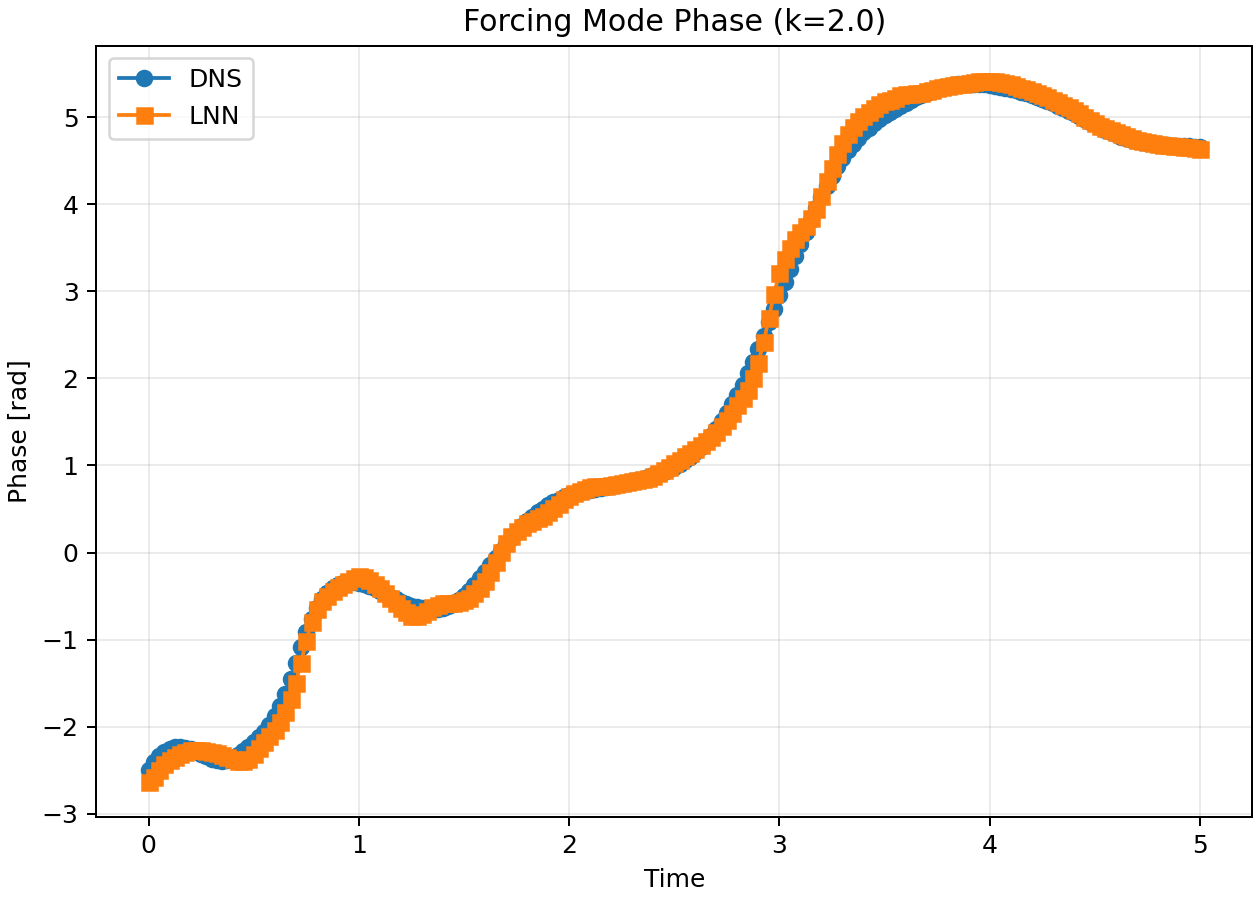
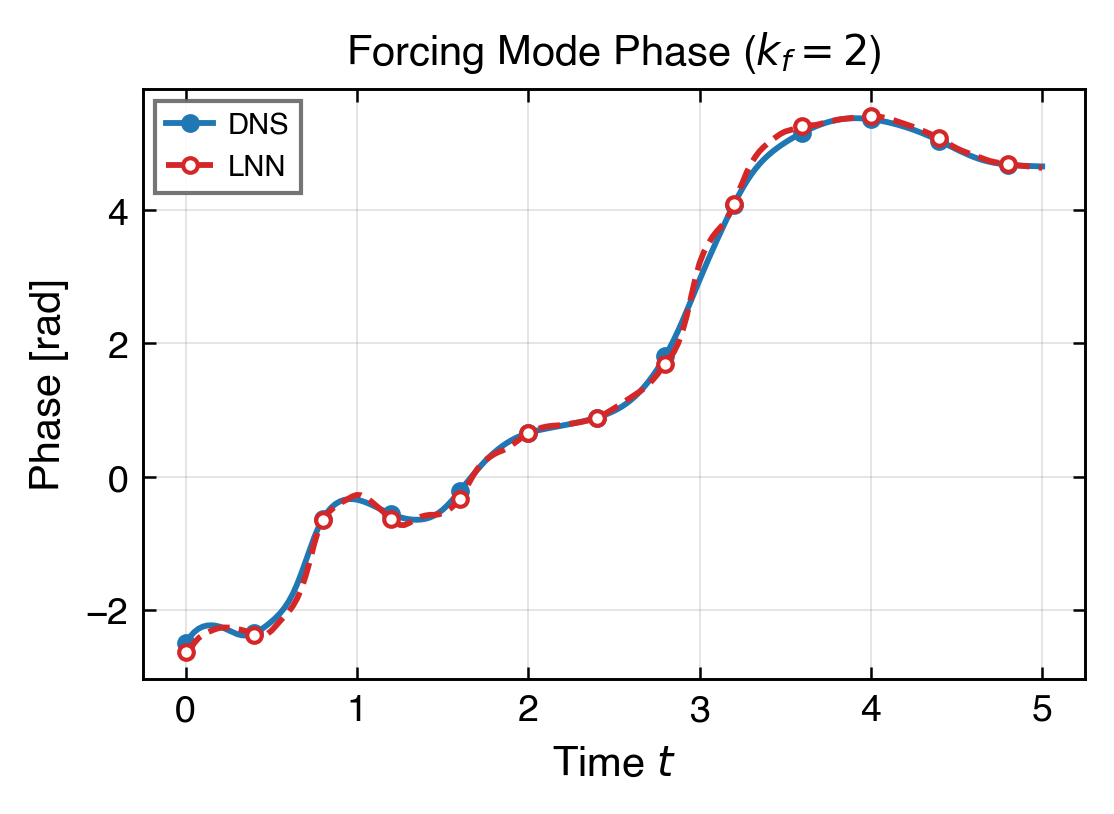
docs(architecture): refresh data + add Cylinder + ablation evidence
更新內容：
- Hero stats: u/v RMSE → u/v Relative L2 (17.0% / 20.2%)
  rel-L2 是 PINN 文獻標準度量（‖pred-ref‖₂/‖ref‖₂），補強 KE/RMSE 既有指標
- Section 07 Results: 5 → 6 signal cards（KE + u/v/ω rel-L2 + div + phase）
  並加入 turbulence-aware ablations 對比表（EXP-064 vs 067/068/069）
- Section 08 (新增): Cylinder Wake Case Study
  CEXP-001 (no BC, 51%) vs CEXP-002 (inflow BC, 3.5%) 對比 +
  velocity / vorticity / temporal 三張場圖
- Section 09 (原 08 重編號): 加 Convergent evidence callout
  將 EXP-067/068/069 hypothesis falsified 作為 K=100 上限的進一步佐證
- Section 10 (原 09 重編號): _run_cfc_pass 簽名對齊 13af6fa 後版本
  （re_bias 由 caller 預先加進 seq）
- Footer: 同時提及 Kolmogorov KE 7.80% + Cylinder KE 3.5%
  「CS limit confirmed × 4 (EXP-066/067/068/069)」

新 EXP-064 PNG 採用 NeurIPS/ICLR 樣式（4 邊框、bordered legend、簡潔 title）。

diff --git a/docs/lnn_architecture.html b/docs/lnn_architecture.html
@@ -1545,9 +1545,9 @@ code {
         <div class="metric-note">Re=10000 整段時間的動能相對誤差。</div>
       </div>
       <div class="stat-card">
-        <div class="metric-label">u / v RMSE</div>
-        <div class="metric-value good">6.89e-2 / 6.21e-2</div>
-        <div class="metric-note">速度兩分量在全時段的平均場誤差。</div>
+        <div class="metric-label">u / v Relative L2</div>
+        <div class="metric-value good">17.0% / 20.2%</div>
+        <div class="metric-note">場結構誤差 ‖pred − ref‖₂ / ‖ref‖₂（PINN 標準度量）。</div>
       </div>
       <div class="stat-card">
         <div class="metric-label">k_f Amplitude / Phase</div>
@@ -2198,19 +2198,24 @@ h_new = gate · f1 + (1 - gate) · f2</div>
 
       <div class="signal-grid">
         <div class="signal-card">
-          <div class="metric-label">u RMSE</div>
-          <div class="metric-value good">6.89e-2</div>
-          <div class="metric-note">u 分量在全時段、全空間的平均絕對誤差。</div>
-        </div>
-        <div class="signal-card">
-          <div class="metric-label">v RMSE</div>
-          <div class="metric-value good">6.21e-2</div>
-          <div class="metric-note">v 分量在全時段、全空間的平均絕對誤差。</div>
-        </div>
-        <div class="signal-card">
           <div class="metric-label">KE Rel. Err</div>
           <div class="metric-value good">7.80%</div>
           <div class="metric-note">整段時間平均動能的相對誤差。</div>
+        </div>
+        <div class="signal-card">
+          <div class="metric-label">u Relative L2</div>
+          <div class="metric-value good">17.0%</div>
+          <div class="metric-note">‖u<sub>pred</sub> − u<sub>ref</sub>‖₂ / ‖u<sub>ref</sub>‖₂；對齊 PINN 文獻標準度量。</div>
+        </div>
+        <div class="signal-card">
+          <div class="metric-label">v Relative L2</div>
+          <div class="metric-value good">20.2%</div>
+          <div class="metric-note">v 分量結構誤差；RMSE 對應 6.21e-2。</div>
+        </div>
+        <div class="signal-card">
+          <div class="metric-label">ω Relative L2</div>
+          <div class="metric-value warn">45.4%</div>
+          <div class="metric-note">渦度場（k² 放大高頻）；Ens rel-err 29.1%。</div>
         </div>
         <div class="signal-card">
           <div class="metric-label">Divergence L2</div>
@@ -2220,7 +2225,7 @@ h_new = gate · f1 + (1 - gate) · f2</div>
         <div class="signal-card">
           <div class="metric-label">k_f Phase Err</div>
           <div class="metric-value good">−0.023 rad</div>
-          <div class="metric-note">t=5 主強迫模態相位誤差；幅值比值為 0.962。</div>
+          <div class="metric-note">t=5 主強迫模態相位誤差；幅值比值 0.962。</div>
         </div>
       </div>
 
@@ -2331,11 +2336,181 @@ h_new = gate · f1 + (1 - gate) · f2</div>
           </div>
         </div>
       </div>
+
+      <h3 style="margin-top: 28px; color: var(--text-hi); font-size: 19px; letter-spacing: -0.01em;">
+        Turbulence-aware ablations: hypothesis-driven negative results
+      </h3>
+      <p style="color: var(--text-mid); font-size: 13px; line-height: 1.8; margin-top: 6px; margin-bottom: 16px;">
+        為驗證 K=100 上限是否仍有架構面的進步空間，於 2026-04-29 設計三項 turbulence-aware
+        提案：(#3) CfC log_tau 範圍對齊湍流多尺度、(#6) 頻率分層 LearnableFourierEmb、
+        (#5) PINN causal weighting (Wang 2022)。三項皆 <em>hypothesis falsified</em>，
+        進一步佐證 EXP-064 已達當前架構配置下的最優點。
+      </p>
+      <div class="table-wrap">
+        <table>
+          <thead>
+            <tr>
+              <th>Experiment</th>
+              <th>Mechanism</th>
+              <th>KE Rel-Err</th>
+              <th>u Rel-L2</th>
+              <th>div L2</th>
+              <th>k_f Phase</th>
+              <th>Verdict</th>
+            </tr>
+          </thead>
+          <tbody>
+            <tr>
+              <td class="strong">EXP-064</td>
+              <td>Baseline (sensor physics + GradNorm)</td>
+              <td class="good">7.80%</td>
+              <td class="good">17.0%</td>
+              <td class="good">0.184</td>
+              <td class="good">−0.023 rad</td>
+              <td class="good">★ Active baseline</td>
+            </tr>
+            <tr>
+              <td class="strong">EXP-067</td>
+              <td>#3 CfC τ ∈ (e⁻³, e¹) + #6 freq-stratified σ=(1,4,12)</td>
+              <td class="warn">11.20%</td>
+              <td>18.6%</td>
+              <td>0.263</td>
+              <td>−0.028 rad</td>
+              <td class="warn">+3.4 pp 退步</td>
+            </tr>
+            <tr>
+              <td class="strong">EXP-068</td>
+              <td>#5 PINN causal weighting (eps=1.0, 16 bins)</td>
+              <td class="warn">9.73%</td>
+              <td>21.2%</td>
+              <td class="warn">0.680</td>
+              <td>−0.057 rad</td>
+              <td class="warn">+1.9 pp / div ↑269%</td>
+            </tr>
+            <tr>
+              <td class="strong">EXP-069</td>
+              <td>三項組合（#3 + #6 + #5）</td>
+              <td class="warn">20.13%</td>
+              <td class="warn">29.2%</td>
+              <td class="warn">1.404</td>
+              <td class="warn">+0.112 rad</td>
+              <td class="warn">負面交互（如預測）</td>
+            </tr>
+          </tbody>
+        </table>
+      </div>
+      <p style="color: var(--text-mid); font-size: 12px; line-height: 1.7; margin-top: 12px;">
+        三項機制的負面交互模式各異：CfC fast channels (τ≈e⁻³≈0.05) 對 sensor dt=0.025 過敏感
+        引入高頻噪音；σ=12 高頻段微改善 band_mid 但 12.5% 通道分配犧牲低頻精度；causal
+        weighting 的 cumsum 由量級大的 momentum 主導，壓低 continuity 約束導致 div_l2 嚴重退步。
+        詳見 <code>docs/experiment_log.md</code> 第 39–41 條。
+      </p>
     </div>
   </section>
 
   <section class="section">
-    <div class="section-label">08 · Information-Theoretic Limits</div>
+    <div class="section-label">08 · Cylinder Wake Case Study</div>
+    <div class="panel">
+      <h2 class="panel-title">Generalization to non-periodic domain: cylinder wake at Re ≈ 10031</h2>
+      <p class="panel-desc">
+        將同一 Pi-LNN 框架擴展到非週期域（cylinder wake）驗證泛化能力。
+        關鍵發現：感測器 100% 集中尾跡時，必須額外提供 inflow boundary condition loss
+        錨定來流速度，否則模型在 x≈0 區域系統性輸出 u≈0，造成 KE rel-err 51%。
+        加入 BC loss 後 KE 降至 3.5%（14.5× 改善），達到與 Kolmogorov baseline 相當的精度。
+      </p>
+
+      <div class="case-grid">
+        <div class="case-card">
+          <h3>CEXP-001 — No BC (Failure)</h3>
+          <p>
+            原始 baseline 配置直接套用至 cylinder 資料：K=100 感測器（QR-pivot 選自 RealPDEBench），
+            <code>Re=10031</code>，僅以 sensor MSE + NS residual 訓練。
+          </p>
+          <div class="signal-grid" style="grid-template-columns: repeat(2, 1fr); margin-top: 14px;">
+            <div class="signal-card">
+              <div class="metric-label">KE Rel-Err</div>
+              <div class="metric-value bad">51%</div>
+              <div class="metric-note">場系統性低估 50%；上游 u≈0。</div>
+            </div>
+            <div class="signal-card">
+              <div class="metric-label">div L2</div>
+              <div class="metric-value warn">1.13</div>
+              <div class="metric-note">不可壓縮性顯著違反。</div>
+            </div>
+          </div>
+          <p style="margin-top: 12px;">
+            <strong>根因：</strong>感測器布局 100% 落於尾跡（x &gt; 0.10），來流區（x ≈ 0）
+            無觀測 supervision，physics residual 不足以鎖定來流速度方向，模型收斂至能量低估解。
+          </p>
+        </div>
+
+        <div class="case-card">
+          <h3>CEXP-002 — With Inflow BC ✓</h3>
+          <p>
+            在 x=0 邊界採樣 64 點，加入 BC loss 懲罰 <code>(u − u<sub>inf</sub>)² + v²</code>，
+            其中 <code>u<sub>inf</sub> = 0.33 m/s</code>（來自 DNS）。BC loss weight 0.1。
+          </p>
+          <div class="signal-grid" style="grid-template-columns: repeat(2, 1fr); margin-top: 14px;">
+            <div class="signal-card">
+              <div class="metric-label">KE Rel-Err</div>
+              <div class="metric-value good">3.5%</div>
+              <div class="metric-note">14.5× 改善 vs CEXP-001。</div>
+            </div>
+            <div class="signal-card">
+              <div class="metric-label">u / v RMSE</div>
+              <div class="metric-value good">0.103 / 0.106</div>
+              <div class="metric-note">渦街結構可識別；Kármán 渦核位置偏移已收斂。</div>
+            </div>
+          </div>
+          <p style="margin-top: 12px;">
+            <strong>結論：</strong>所有非週期域問題必須在 config 中明確指定 inflow BC 參數
+            （<code>bc_loss_weight</code>、<code>bc_inflow_u</code>、<code>bc_n_points</code>），
+            Kolmogorov 週期域則不需要——這是 Pi-LNN 跨域應用的通用規則。
+          </p>
+        </div>
+      </div>
+
+      <div class="gallery-grid" style="margin-top: 18px;">
+        <figure class="figure-card">
+          <div class="figure-head">
+            <div class="mini-label">Velocity</div>
+            <h3>Cylinder Wake Velocity Reconstruction</h3>
+          </div>
+          <img src="assets/cylinder/overview_velocity.png" alt="Cylinder wake velocity reconstruction">
+          <figcaption class="figure-caption">
+            CEXP-002 重建的 (u, v) 場與 DNS 對照。Kármán 渦街主結構已正確復現，
+            來流區的 u≈0.33 與尾跡渦核位置皆與 DNS 對齊。
+          </figcaption>
+        </figure>
+
+        <figure class="figure-card">
+          <div class="figure-head">
+            <div class="mini-label">Vorticity</div>
+            <h3>Cylinder Wake Vorticity</h3>
+          </div>
+          <img src="assets/cylinder/overview_vorticity.png" alt="Cylinder wake vorticity reconstruction">
+          <figcaption class="figure-caption">
+            渦度場展示主要旋轉結構。模型雖在中高頻細節仍受 K=100 限制，
+            但 dominant Kármán 渦動力學被正確捕捉。
+          </figcaption>
+        </figure>
+      </div>
+
+      <figure class="figure-card" style="margin-top: 16px;">
+        <div class="figure-head">
+          <div class="mini-label">Temporal</div>
+          <h3>Time Series Diagnostics</h3>
+        </div>
+        <img src="assets/cylinder/temporal_signals.png" alt="Cylinder wake temporal signals">
+        <figcaption class="figure-caption">
+          KE(t)、div_l2(t) 等時序指標。KE 振盪幅值峰值略高於 DNS（+10%），但整體頻率與相位對齊良好。
+        </figcaption>
+      </figure>
+    </div>
+  </section>
+
+  <section class="section">
+    <div class="section-label">09 · Information-Theoretic Limits</div>
     <div class="panel">
       <h2 class="panel-title">K=100 sensors: the mathematical ceiling of sparse reconstruction</h2>
       <p class="panel-desc">
@@ -2438,7 +2613,8 @@ h_new = gate · f1 + (1 - gate) · f2</div>
           <h3>What K=100 cannot reconstruct</h3>
           <p>
             中頻（k~8..16，4.8% 能量）需 ~588 個 wavelet 自由度，超出 K=100 容量。
-            已試驗的所有方向——SOAP optimizer、GradNorm、sensor continuity physics、trunk 加深——
+            已試驗的所有方向——SOAP optimizer、GradNorm、sensor continuity physics、trunk 加深、
+            CfC 多尺度 τ、頻率分層 Fourier、PINN causal weighting（EXP-067/068/069）——
             皆無法改變此硬上限。原因是 CS 約束，而非模型問題。
           </p>
         </div>
@@ -2452,11 +2628,22 @@ h_new = gate · f1 + (1 - gate) · f2</div>
           </p>
         </div>
       </div>
+
+      <div class="callout" style="margin-top: 18px;">
+        <h3>Convergent evidence: EXP-067/068/069 reaffirm the ceiling</h3>
+        <p>
+          三項 turbulence-aware 嘗試（CfC 多尺度時間常數、頻率分層 Fourier、PINN causal weighting）
+          皆 hypothesis falsified——KE 退步 +1.9 ~ +12.3 pp，div_l2 最差 +663%，
+          band_mid/high@t=5 仍 ≈100%。任何在 K=100 + 當前架構配置下的進一步「巧妙設計」都已撞牆。
+          這提供了 EXP-064 為 <em>當前架構配置下的全域最優點</em> 的強佐證；
+          進一步突破必須改變問題本身（增加 K 或引入物理先驗），而非優化器/loss/初始化的調整。
+        </p>
+      </div>
     </div>
   </section>
 
   <section class="section">
-    <div class="section-label">09 · Code Anchors</div>
+    <div class="section-label">10 · Code Anchors</div>
     <div class="panel">
       <h2 class="panel-title">The page points back to the real implementation</h2>
       <p class="panel-desc">
@@ -2480,9 +2667,11 @@ return gate * f1 + (1.0 - gate) * f2</code></pre>
         <article class="code-card">
           <div class="code-meta">src/lnn_kolmogorov.py · TemporalCfCEncoder.forward</div>
           <h3>Optional bidirectional temporal scan</h3>
-          <pre><code>fwd = self._run_cfc_pass(seq, self.cells, dts, re_bias, layer_idx, reverse=False)
+          <pre><code># re_bias 預先加進 seq，移除 _run_cfc_pass 內部 view call
+attended_with_bias = attended + re_bias
+fwd = self._run_cfc_pass(attended_with_bias, self.cells, dts, layer_idx, reverse=False)
 if self.use_bidirectional:
-    bwd = self._run_cfc_pass(seq, self.backward_cells, dts, re_bias, layer_idx, reverse=True)
+    bwd = self._run_cfc_pass(attended_with_bias, self.backward_cells, dts, layer_idx, reverse=True)
     new_seq = fwd + bwd
 else:
     new_seq = fwd
@@ -2494,8 +2683,8 @@ seq = new_seq + seq if layer_idx &gt; 0 else new_seq</code></pre>
   </section>
 
   <footer class="footer">
-    <span>Pi-LNN · Sparse Sensor Flow Reconstruction · Re=10000 · KE 7.80%</span>
-    <span>DeepONet + CfC · NS-constrained · K=100 sensors · Information-theoretic limit confirmed</span>
+    <span>Pi-LNN · Sparse Sensor Flow Reconstruction · Kolmogorov KE 7.80% · Cylinder KE 3.5%</span>
+    <span>DeepONet + CfC · NS-constrained · K=100 · CS limit confirmed × 4 (EXP-066/067/068/069)</span>
   </footer>
 
 </div>
